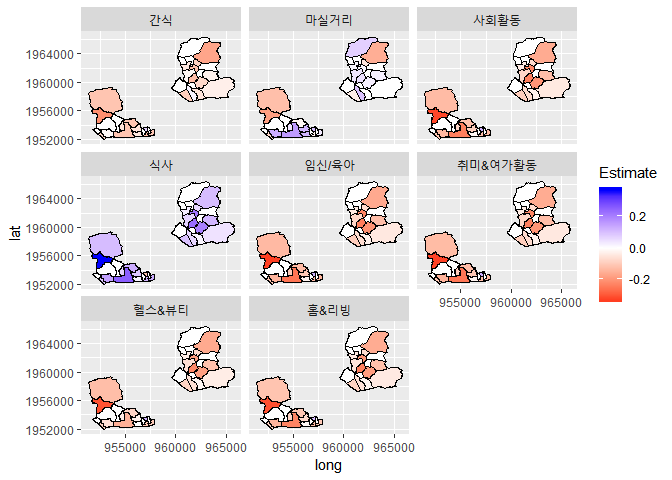
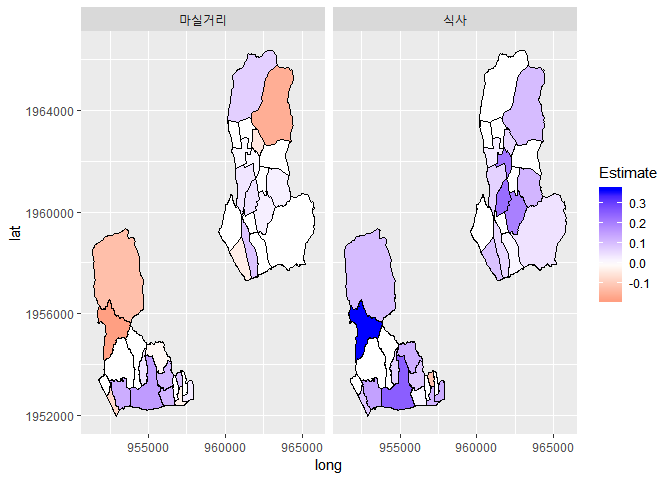
consider coord_map

diff --git a/Inferences.md b/Inferences.md
@@ -42,6 +42,58 @@ Age_level <- c("Youth", "Rising", "Middle", "Senior")
 Week_Day_lev <- c("Fri", "Sat", "Sun", "Mon", "Tue", "Wed", "Thu")
 ```
 
+Issues
+======
+
+``` r
+states <- map_data("state")
+```
+
+    ## Warning: package 'maps' was built under R version 3.6.1
+
+    ## 
+    ## Attaching package: 'maps'
+
+    ## The following object is masked from 'package:purrr':
+    ## 
+    ##     map
+
+``` r
+usamap <- ggplot(states, aes(long, lat, group = group)) +
+  geom_polygon(fill = "white", colour = "black")
+
+usamap + coord_map(projection = "mercator")
+```
+
+![](Inferences_files/figure-markdown_github/unnamed-chunk-2-1.png)
+
+We can use coord\_map to project map into mercator map. However, we
+can’t use it in inference below. To use mercator projection, we need to
+know the longtitude and latitude.
+
+but, the shape file of Nowon and Jongno is privided just Cartesian x / y
+coordinate.
+
+``` r
+HDONG_map %>% 
+  select(long, lat) %>%
+  summary()
+```
+
+    ##       long             lat         
+    ##  Min.   :951368   Min.   :1951963  
+    ##  1st Qu.:953344   1st Qu.:1953147  
+    ##  Median :955662   Median :1953916  
+    ##  Mean   :956490   Mean   :1955542  
+    ##  3rd Qu.:959999   3rd Qu.:1957626  
+    ##  Max.   :965812   Max.   :1966369
+
+The latitude of South korea is 33 to 43, and longtitude is 124 to 132.
+But in the shape file, latitude is 951368 up to 965812, and the
+longtitude is 1951963 up to 1966369.
+
+I think it is the reason why coor\_map does not work in my ggmap.
+
 1) SK\_Age
 ----------
 
@@ -159,11 +211,7 @@ Gamma-Hurdle Model for SK\_Age Data.
 
 ``` r
 glm_SK_Age_Binom <- glm(Non_zero ~ ., data = SK_Age_HDONG_Modified %>% select(-MONTH, -STD_YM, -STD_YMD, -HDONG_NM, -Avg_pop, -Holiday), family = binomial(link = "logit"))
-```
 
-    ## Warning: glm.fit: fitted probabilities numerically 0 or 1 occurred
-
-``` r
 glm_SK_Age_Gamma_HDONG <- glm(Avg_pop ~ HDONG_CD + Sex + Age + AGE_CTG + avg_temp + avg_pm10 + avg_pm25 + pm10_CTG + pm25_CTG + Week_Day + Holiday + HDONG_CD:pm25_CTG + HDONG_CD:AGE_CTG + HDONG_CD:Holiday + HDONG_CD:Sex + pm25_CTG:AGE_CTG, 
                          data = SK_Age_HDONG_Modified %>% filter(Non_zero == 1) %>%
                           select(-MONTH, -STD_YM, -STD_YMD, -HDONG_NM, -Non_zero), 
@@ -177,11 +225,7 @@ Gamma-Hurdle Model for SK\_Time Data
 
 ``` r
 glm_SK_Time_Binom <- glm(Non_zero ~ ., data = SK_Time_HDONG_Modified %>% select(-STD_YM, -STD_YMD, -HDONG_NM, -Avg_pop), family = binomial)
-```
 
-    ## Warning: glm.fit: fitted probabilities numerically 0 or 1 occurred
-
-``` r
 glm_SK_Time_Gamma_HDONG <- glm(Avg_pop ~ HDONG_CD + Time + Week_Day + avg_temp + avg_pm10 + avg_pm25 +
                                        pm10_CTG + pm25_CTG + pm10_Wrn + Holiday + Time_Group + 
                            HDONG_CD:Week_Day + HDONG_CD:pm25_CTG + HDONG_CD:Holiday +
@@ -341,7 +385,7 @@ tibble(HDONG_CD = HDong_CD$HDONG_CD,
   facet_wrap(~Sex) 
 ```
 
-![](Inferences_files/figure-markdown_github/unnamed-chunk-14-1.png)
+![](Inferences_files/figure-markdown_github/unnamed-chunk-17-1.png)
 
 ``` r
 tibble(AGE_CTG = Age_level %>% rep(each = 6), 
@@ -369,7 +413,7 @@ tibble(AGE_CTG = Age_level %>% rep(each = 6),
   geom_point(aes(x = pm25_CTG, y = Est_point, color = AGE_CTG))
 ```
 
-![](Inferences_files/figure-markdown_github/unnamed-chunk-15-1.png)
+![](Inferences_files/figure-markdown_github/unnamed-chunk-18-1.png)
 
 ``` r
 tibble(AGE_CTG = Age_level %>% rep(each = 6), 
@@ -395,7 +439,7 @@ tibble(AGE_CTG = Age_level %>% rep(each = 6),
   geom_point(aes(x = pm25_CTG, y = Est_point))
 ```
 
-![](Inferences_files/figure-markdown_github/unnamed-chunk-16-1.png)
+![](Inferences_files/figure-markdown_github/unnamed-chunk-19-1.png)
 
 Youth와 Middle 동일.
 
@@ -518,7 +562,7 @@ tibble(pm25_CTG = Dust_level %>% rep(each = 4),
   geom_point(aes(x = pm25_CTG, y = Est_point, color = Time_Group))
 ```
 
-![](Inferences_files/figure-markdown_github/unnamed-chunk-18-1.png)
+![](Inferences_files/figure-markdown_github/unnamed-chunk-21-1.png)
 
 ``` r
 tibble(pm25_CTG = Dust_level %>% rep(each = 4), 
@@ -540,7 +584,7 @@ tibble(pm25_CTG = Dust_level %>% rep(each = 4),
   geom_point(aes(x = pm25_CTG, y = Est_point))
 ```
 
-![](Inferences_files/figure-markdown_github/unnamed-chunk-19-1.png)
+![](Inferences_files/figure-markdown_github/unnamed-chunk-22-1.png)
 
 ``` r
 Age_seq <- seq(0, 100, by = 5)
@@ -713,7 +757,7 @@ tibble(Month = rep(c("Apr", "May", "Jun", "Jul", "Aug", "Sep", "Oct", "Nov", "De
   geom_point(aes(x = pm10_CTG, y = Est_point))
 ```
 
-![](Inferences_files/figure-markdown_github/unnamed-chunk-21-1.png)
+![](Inferences_files/figure-markdown_github/unnamed-chunk-24-1.png)
 
 ``` r
 tibble(HDONG_CD = rep(HDong_CD$HDONG_CD, each = 6), 
@@ -763,12 +807,6 @@ tibble(HDONG_CD = rep(HDong_CD$HDONG_CD, each = 6),
 ### (2) gam\_Dist
 
 ``` r
-plot(gam_Dist, pages = 1)
-```
-
-![](Inferences_files/figure-markdown_github/unnamed-chunk-22-1.png)
-
-``` r
 summary_gam_Dist <- summary(gam_Dist)$p.table %>%
   data.frame() %>%
   rownames_to_column(var = "Variable") %>%
@@ -801,6 +839,7 @@ tibble(HDONG_CD = rep(HDong_CD$HDONG_CD, each = 8),
   mutate(Estimate = val_HDONG_CTG, 
          Estimate = ifelse(Category == "10", val_HDONG, Estimate)) %>%
   left_join(HDONG_map, by = "HDONG_CD") %>%
+  filter(Category_NM %in% c("마실거리", "식사")) %>%
   ggplot() +
   geom_polygon(aes(x = long, y = lat, group = group, fill = Estimate), color = "black") +
   scale_fill_gradient2(low = "red", high = "blue") +
@@ -879,7 +918,7 @@ tibble(Category = rep(Dist_Category$CTG_CD, each = 12),
   facet_wrap(~Type)
 ```
 
-![](Inferences_files/figure-markdown_github/unnamed-chunk-25-1.png)
+![](Inferences_files/figure-markdown_github/unnamed-chunk-28-1.png)
 
 ``` r
 Exclude_HDONG <- c("11110515", "11110540", "11110570", "11110680", "11110700", "11350570", "11350612", 
@@ -902,7 +941,7 @@ tibble(Month = rep(c("Apr", "May", "Jun", "Jul", "Aug", "Sep", "Oct", "Nov", "De
   facet_wrap(~HDONG_NM, scales = "free")
 ```
 
-![](Inferences_files/figure-markdown_github/unnamed-chunk-26-1.png)
+![](Inferences_files/figure-markdown_github/unnamed-chunk-29-1.png)
 
 ``` r
 tibble(Month = rep(c("Apr", "May", "Jun", "Jul", "Aug", "Sep", "Oct", "Nov", "Dec", "Jan", "Feb", "Mar"), 
@@ -921,7 +960,7 @@ tibble(Month = rep(c("Apr", "May", "Jun", "Jul", "Aug", "Sep", "Oct", "Nov", "De
   facet_wrap(~HDONG_NM)
 ```
 
-![](Inferences_files/figure-markdown_github/unnamed-chunk-27-1.png)
+![](Inferences_files/figure-markdown_github/unnamed-chunk-30-1.png)
 
 AMT\_IND 높은 순서대로 가회동, 부암동, 중계4동, 사직동, 중계본동,
 평창동, 무악동, 삼청동, 이화동, 상계8동 등등…
@@ -949,7 +988,7 @@ summary_glm_NB_Card %>%
   geom_bar(aes(x = pm10_CTG, y = val_pm10, fill = Type), stat = "identity", alpha = 0.7)
 ```
 
-![](Inferences_files/figure-markdown_github/unnamed-chunk-29-1.png)
+![](Inferences_files/figure-markdown_github/unnamed-chunk-32-1.png)
 
 glm\_NB\_Card는 avg\_pm10 없음.
 
@@ -976,9 +1015,9 @@ summary_glm_NB_Card %>%
   geom_point(aes(x = pm25_CTG, y = Est_point))
 ```
 
-    ## Warning: Removed 3 rows containing missing values (geom_point).
+    ## Warning: Removed 4 rows containing missing values (geom_point).
 
-![](Inferences_files/figure-markdown_github/unnamed-chunk-30-1.png)
+![](Inferences_files/figure-markdown_github/unnamed-chunk-33-1.png)
 
 ``` r
 summary_glm_NB_Card %>%
@@ -994,7 +1033,7 @@ summary_glm_NB_Card %>%
   theme(axis.text.x = element_text(angle = 90, hjust = 1))
 ```
 
-![](Inferences_files/figure-markdown_github/unnamed-chunk-31-1.png)
+![](Inferences_files/figure-markdown_github/unnamed-chunk-34-1.png)
 
 ``` r
 summary_glm_NB_Card %>%
@@ -1010,7 +1049,7 @@ summary_glm_NB_Card %>%
   geom_bar(aes(x = AGE, y = val_AGE), stat = "identity", alpha = 0.7)
 ```
 
-![](Inferences_files/figure-markdown_github/unnamed-chunk-32-1.png)
+![](Inferences_files/figure-markdown_github/unnamed-chunk-35-1.png)
 
 ``` r
 summary_glm_NB_Card %>%
@@ -1025,7 +1064,7 @@ summary_glm_NB_Card %>%
   scale_fill_gradient2(low = "red", high = "blue")
 ```
 
-![](Inferences_files/figure-markdown_github/unnamed-chunk-33-1.png)
+![](Inferences_files/figure-markdown_github/unnamed-chunk-36-1.png)
 
 ``` r
 glm_NB_Card_Hol_coef <- summary_glm_NB_Card %>% filter(Variable == "Holiday1") %>% .$Estimate
@@ -1045,6 +1084,6 @@ summary_glm_NB_Card %>%
   geom_bar(aes(x = Week_Day, y = Estimate, fill = Type), stat = "identity", alpha = 0.7)
 ```
 
-![](Inferences_files/figure-markdown_github/unnamed-chunk-34-1.png)
+![](Inferences_files/figure-markdown_github/unnamed-chunk-37-1.png)
 
 Sat, Sun에는 Holiday Effect 추가.
